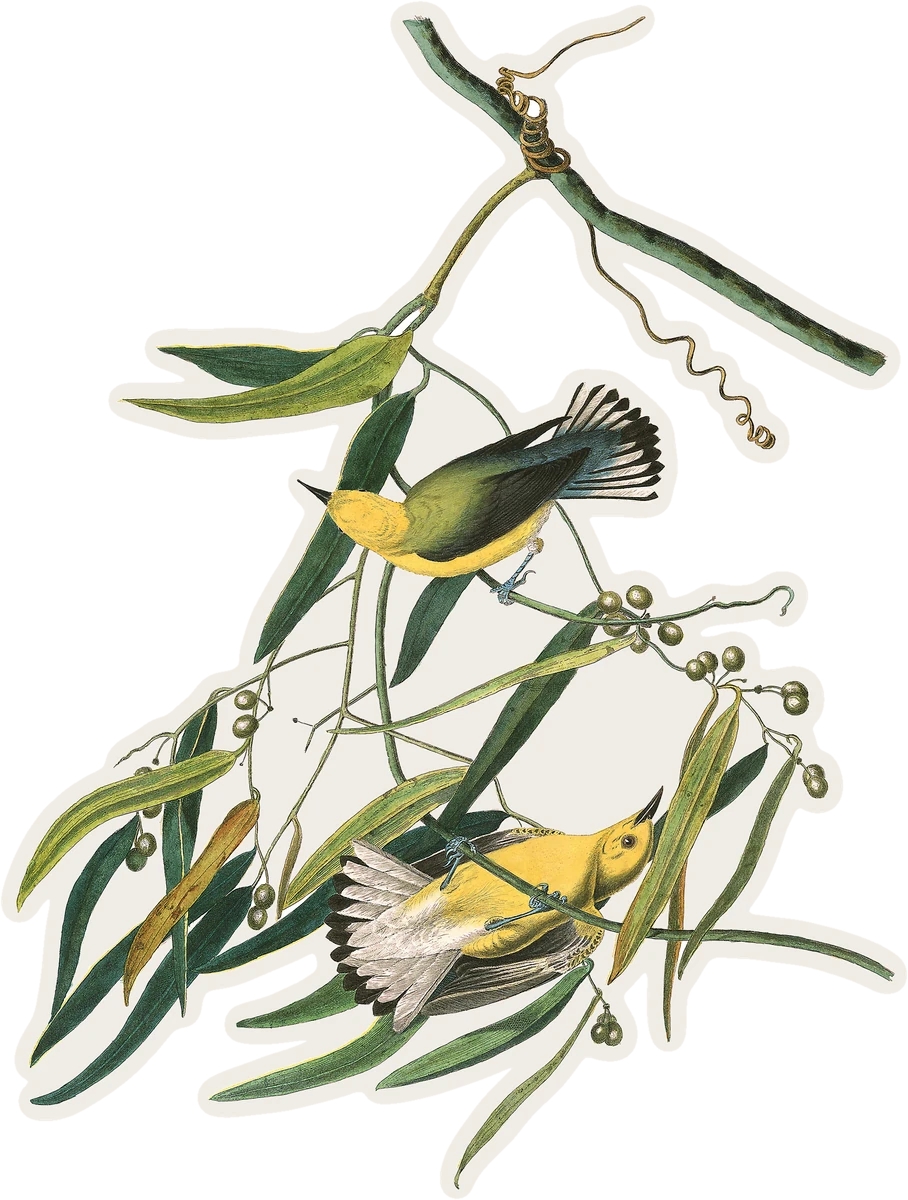
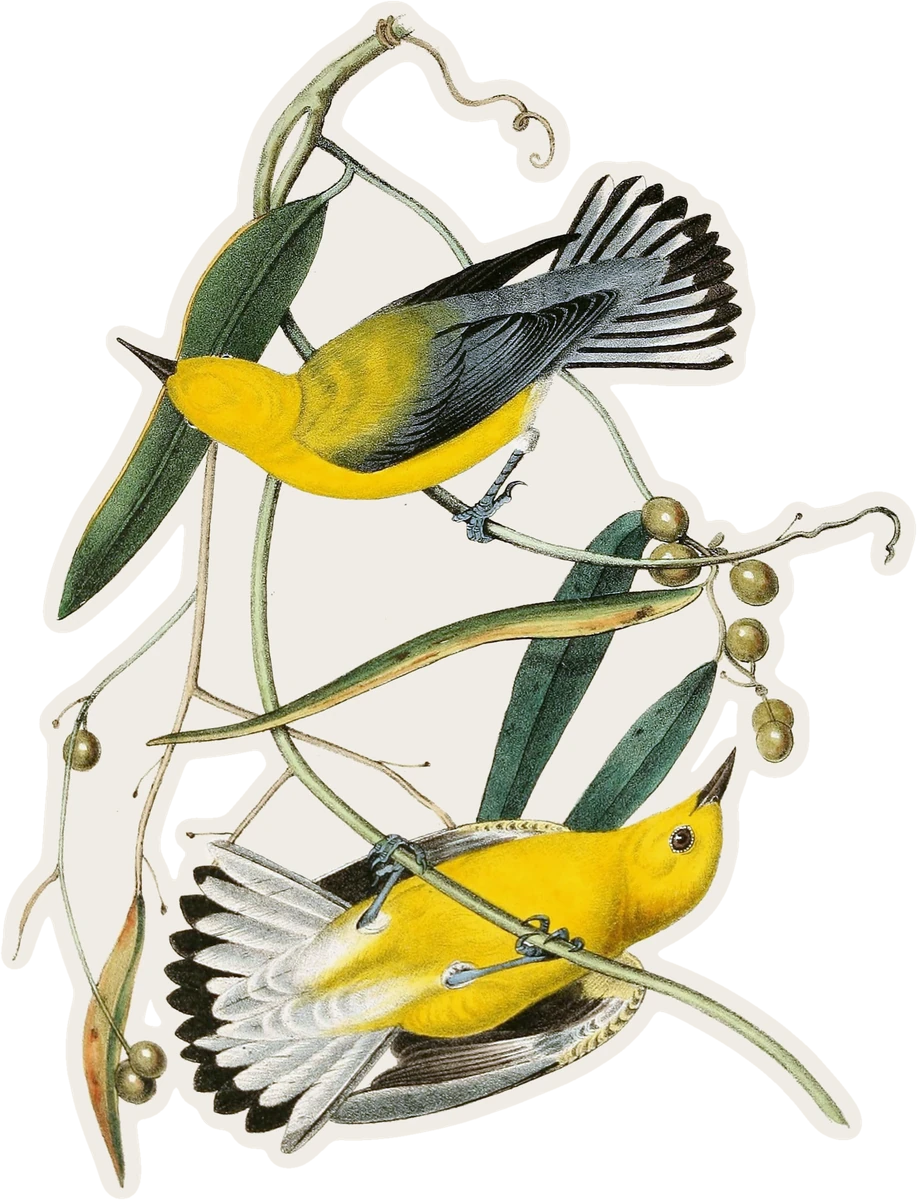
chore(assets): #33 recut and add Aix sponsa, Antrostomus carolinensis, Progne subis, Protonotaria citrea and Setophaga fusca

diff --git a/assets/artwork/classic/ATTRIBUTION.md b/assets/artwork/classic/ATTRIBUTION.md
@@ -228,3 +228,7 @@ CC BY 2.0. Manifest key: `jardine`.
 **Wilson** - *American Ornithology; or, the Natural History of the Birds of the United States* by **Alexander Wilson** (1808-1814), hand-coloured engravings by **Alexander Lawson** after Wilson's drawings. Oak Spring Garden Library scan of the first edition via the [Internet Archive](https://archive.org/details/Wilson5896-v5). Public domain. Manifest key: `wilson`.
 
 **DeKay** - *Zoology of New-York, or the New-York Fauna*, Part 2: Birds, by **James E. DeKay** (Albany, 1844), hand-coloured lithographs by **J. W. Hill**, printed by **Endicott**. New York Public Library scans via Wikimedia Commons. Public domain. Manifest key: `dekay`.
+
+**Catesby** - *The Natural History of Carolina, Florida and the Bahama Islands* by **Mark Catesby** (1754 edition), hand-coloured etchings after his own drawings. Missouri Botanical Garden scans via the Biodiversity Heritage Library on the [Internet Archive](https://archive.org/details/mobot31753000502945); and plates after him, engraved by **Johann Michael Seligmann** for a German edition of his work, with scans from the **Iconographia Zoologica** collection of the **University of Amsterdam** Special Collections (Artis Library), via the Commons category [Iconographia Zoologica](https://commons.wikimedia.org/wiki/Category:Iconographia_Zoologica). Public domain. Manifest key: `catesby`.
+
+**Horsfall** - plates by **Robert Bruce Horsfall** in *The Warblers of North America* by **Frank M. Chapman** (1907), American Museum of Natural History Library scans via the [Biodiversity Heritage Library](https://www.biodiversitylibrary.org/bibliography/8683) on Wikimedia Commons. Public domain. Manifest key: `horsfall`.
